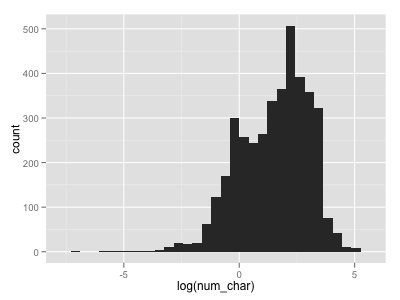
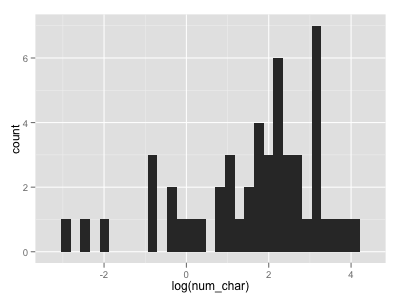
add image export

diff --git a/_posts/notes/2012-10-12-openintro.html b/_posts/notes/2012-10-12-openintro.html
@@ -8,7 +8,7 @@ categories:
 ---
 
 <p>
-统计学可以分为 <span style="text-decoration:underline;">描述性统计学(description of statistics)</span> 和 <span style="text-decoration:underline;">推断性统计学(statistics inference)</span> 。推断统计学使用 <span style="text-decoration:underline;">方差分析检验(ANOVA)</span> ，_卡方检验(Chi-square test)_ ，_多元线性回归分析(multiple regression)_ ，_逻辑回归分析(logistic regression)_ 。
+统计学可以分为 <span style="text-decoration:underline;">描述性统计学(description of statistics)</span> 和 <span style="text-decoration:underline;">推断性统计学(statistics inference)</span> 。推断统计学使用 <span style="text-decoration:underline;">方差分析检验(ANOVA)</span> ， <span style="text-decoration:underline;">卡方检验(Chi-square test)</span> ， <span style="text-decoration:underline;">多元线性回归分析(multiple regression)</span> ， <span style="text-decoration:underline;">逻辑回归分析(logistic regression)</span> 。
 </p>
 <p>
 一般性研究过程可以分为以下几个阶段
@@ -43,6 +43,9 @@ ggplot(cars, aes(x=weight, y=price)) + geom_point()
 </pre>
 
 
+<p>
+  <img src="cars.png"  alt="cars.png" />
+</p>
 </li>
 <li>dot plot
 
@@ -57,7 +60,10 @@ ggplot(cars, aes(x=weight, y=price)) + geom_point()
 ggplot(email50, aes(x=num_char)) + geom_dotplot()
 </pre>
 
-</li>
+
+<p>
+  <img src="email50.png"  alt="email50.png" />
+</p></li>
 </ul>
 
 
@@ -70,7 +76,7 @@ ggplot(email50, aes(x=num_char)) + geom_dotplot()
 
 <pre class="src src-R"><span style="color: #bfebbf;">library</span>(<span style="color: #cc9393;">'openintro'</span>)
 <span style="color: #bfebbf;">library</span>(<span style="color: #cc9393;">'ggplot2'</span>)
-ggplot(emailjavascript:void(0);  7 nk, aes(x=log(num_char))) + geom_histogram()
+ggplot(email50, aes(x=log(num_char))) + geom_histogram()
 </pre>
 
 </li>
